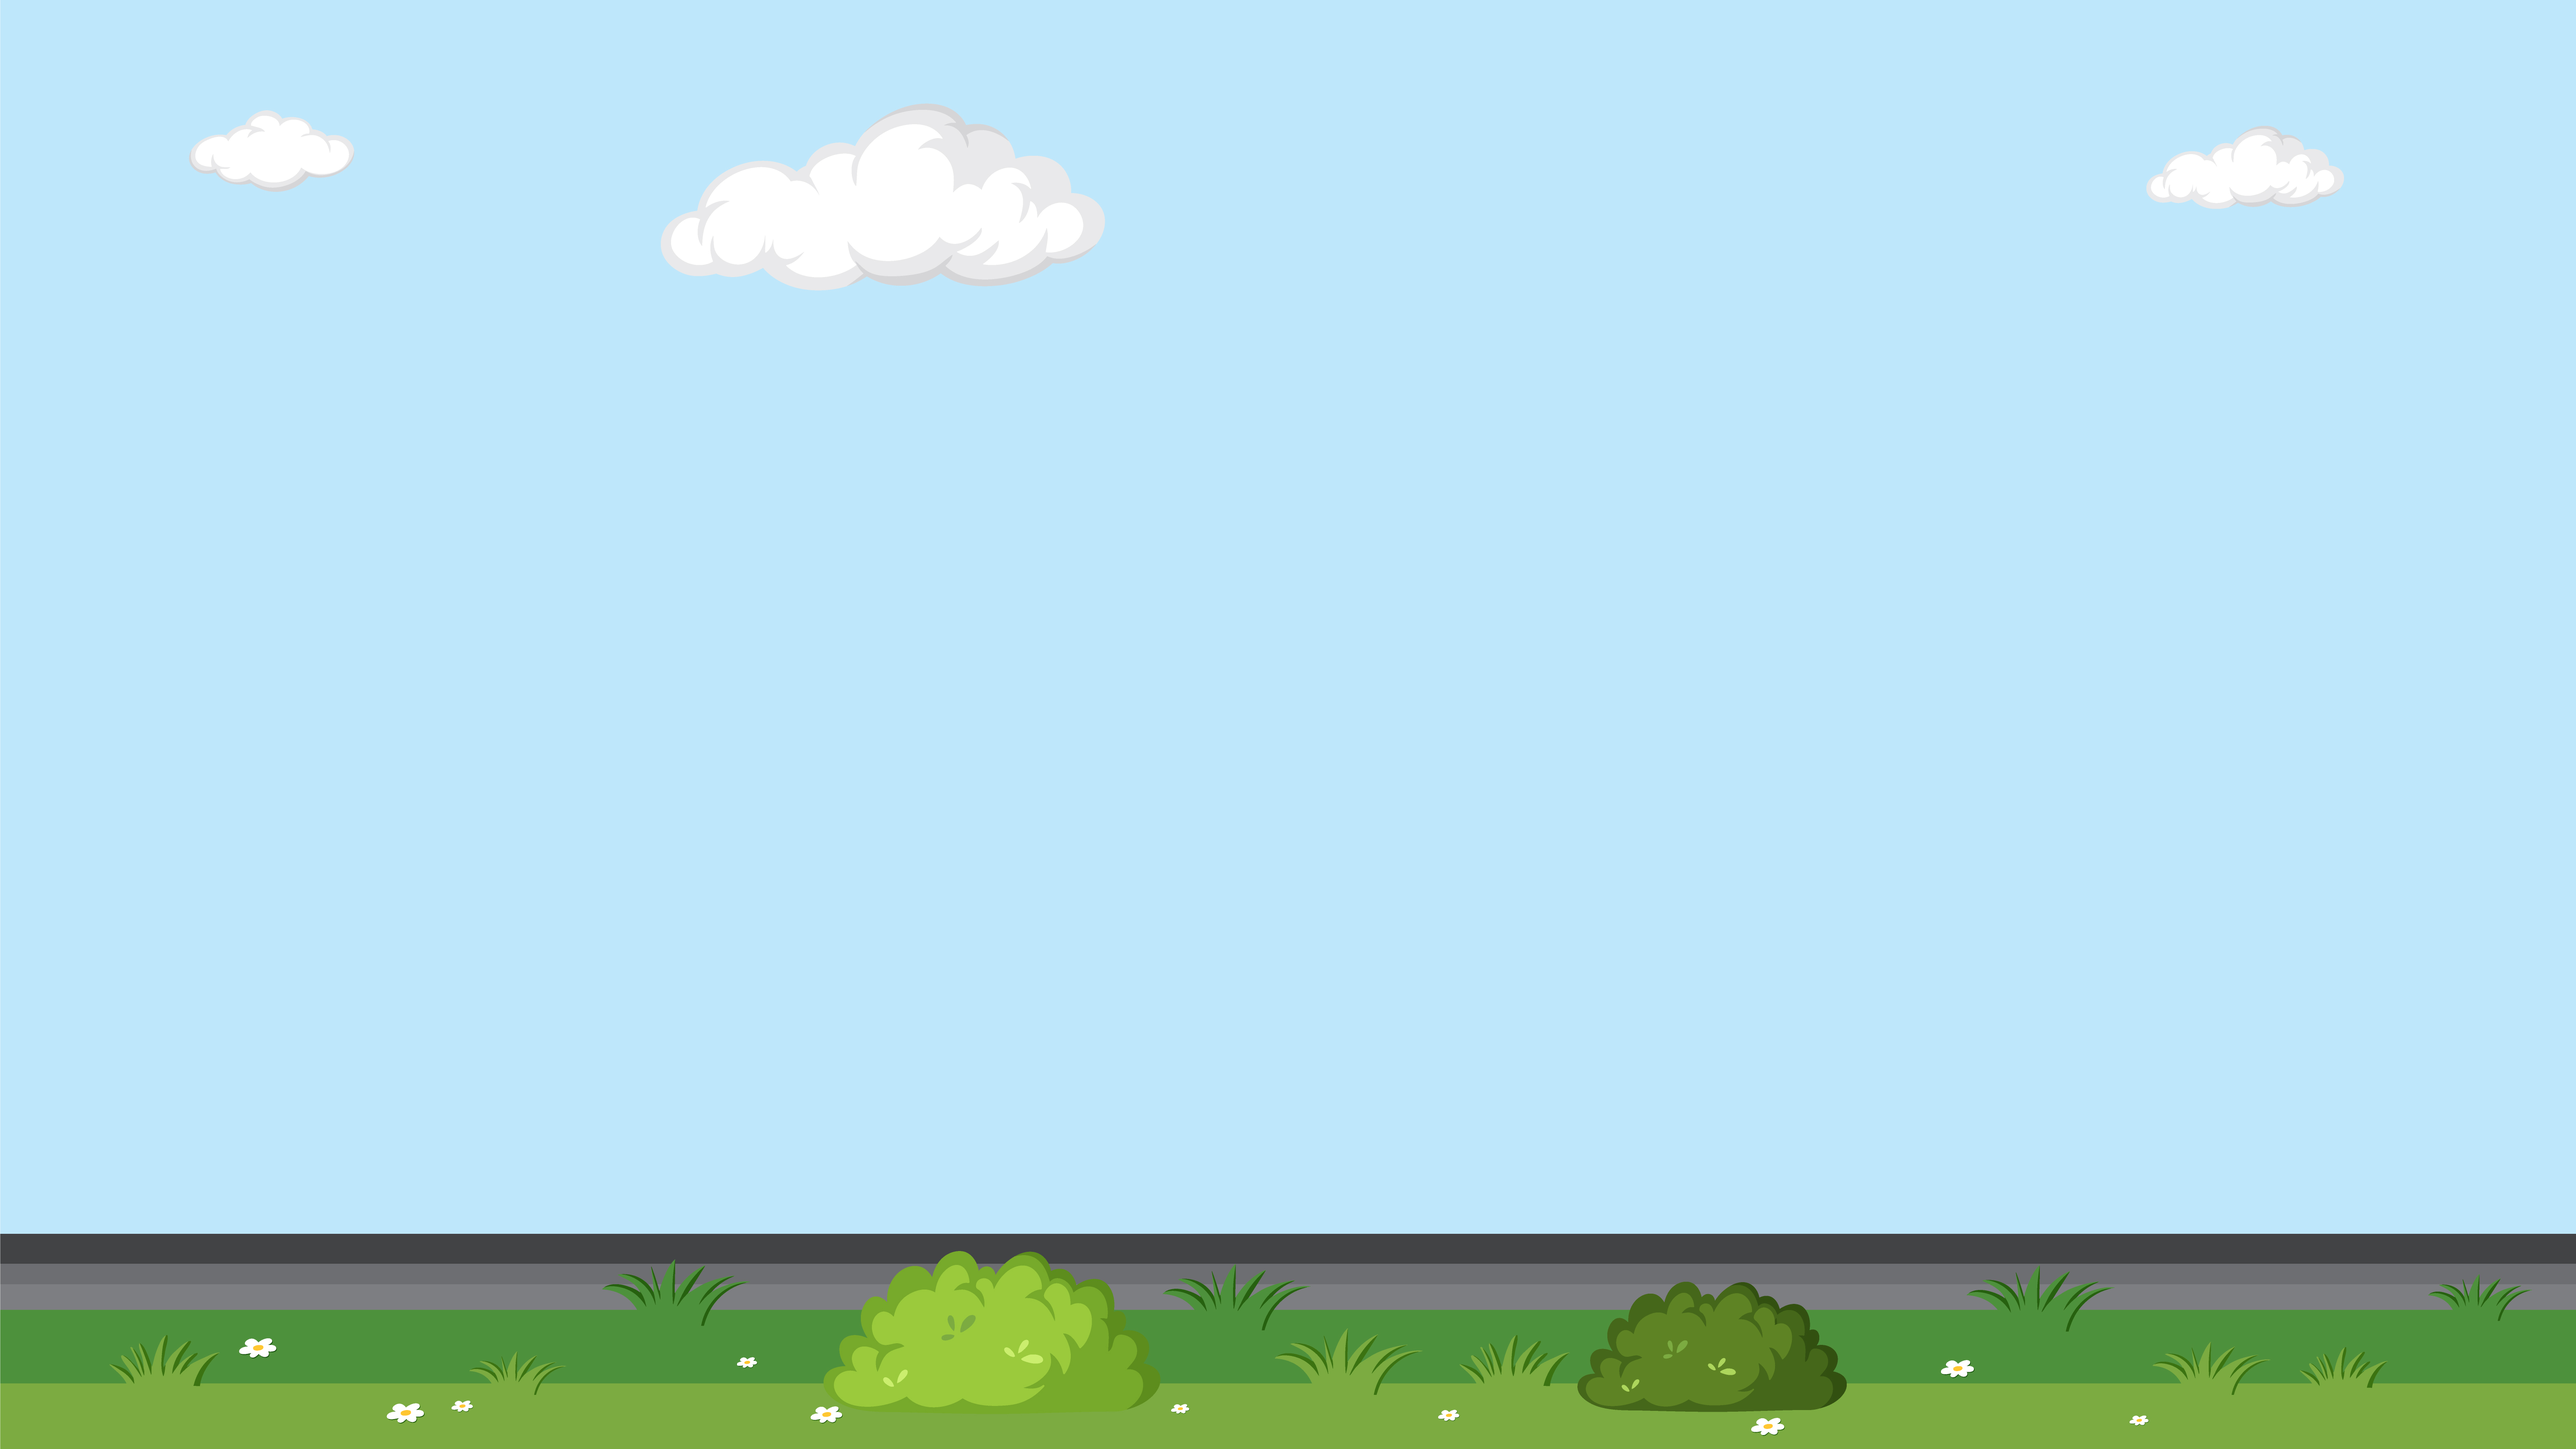
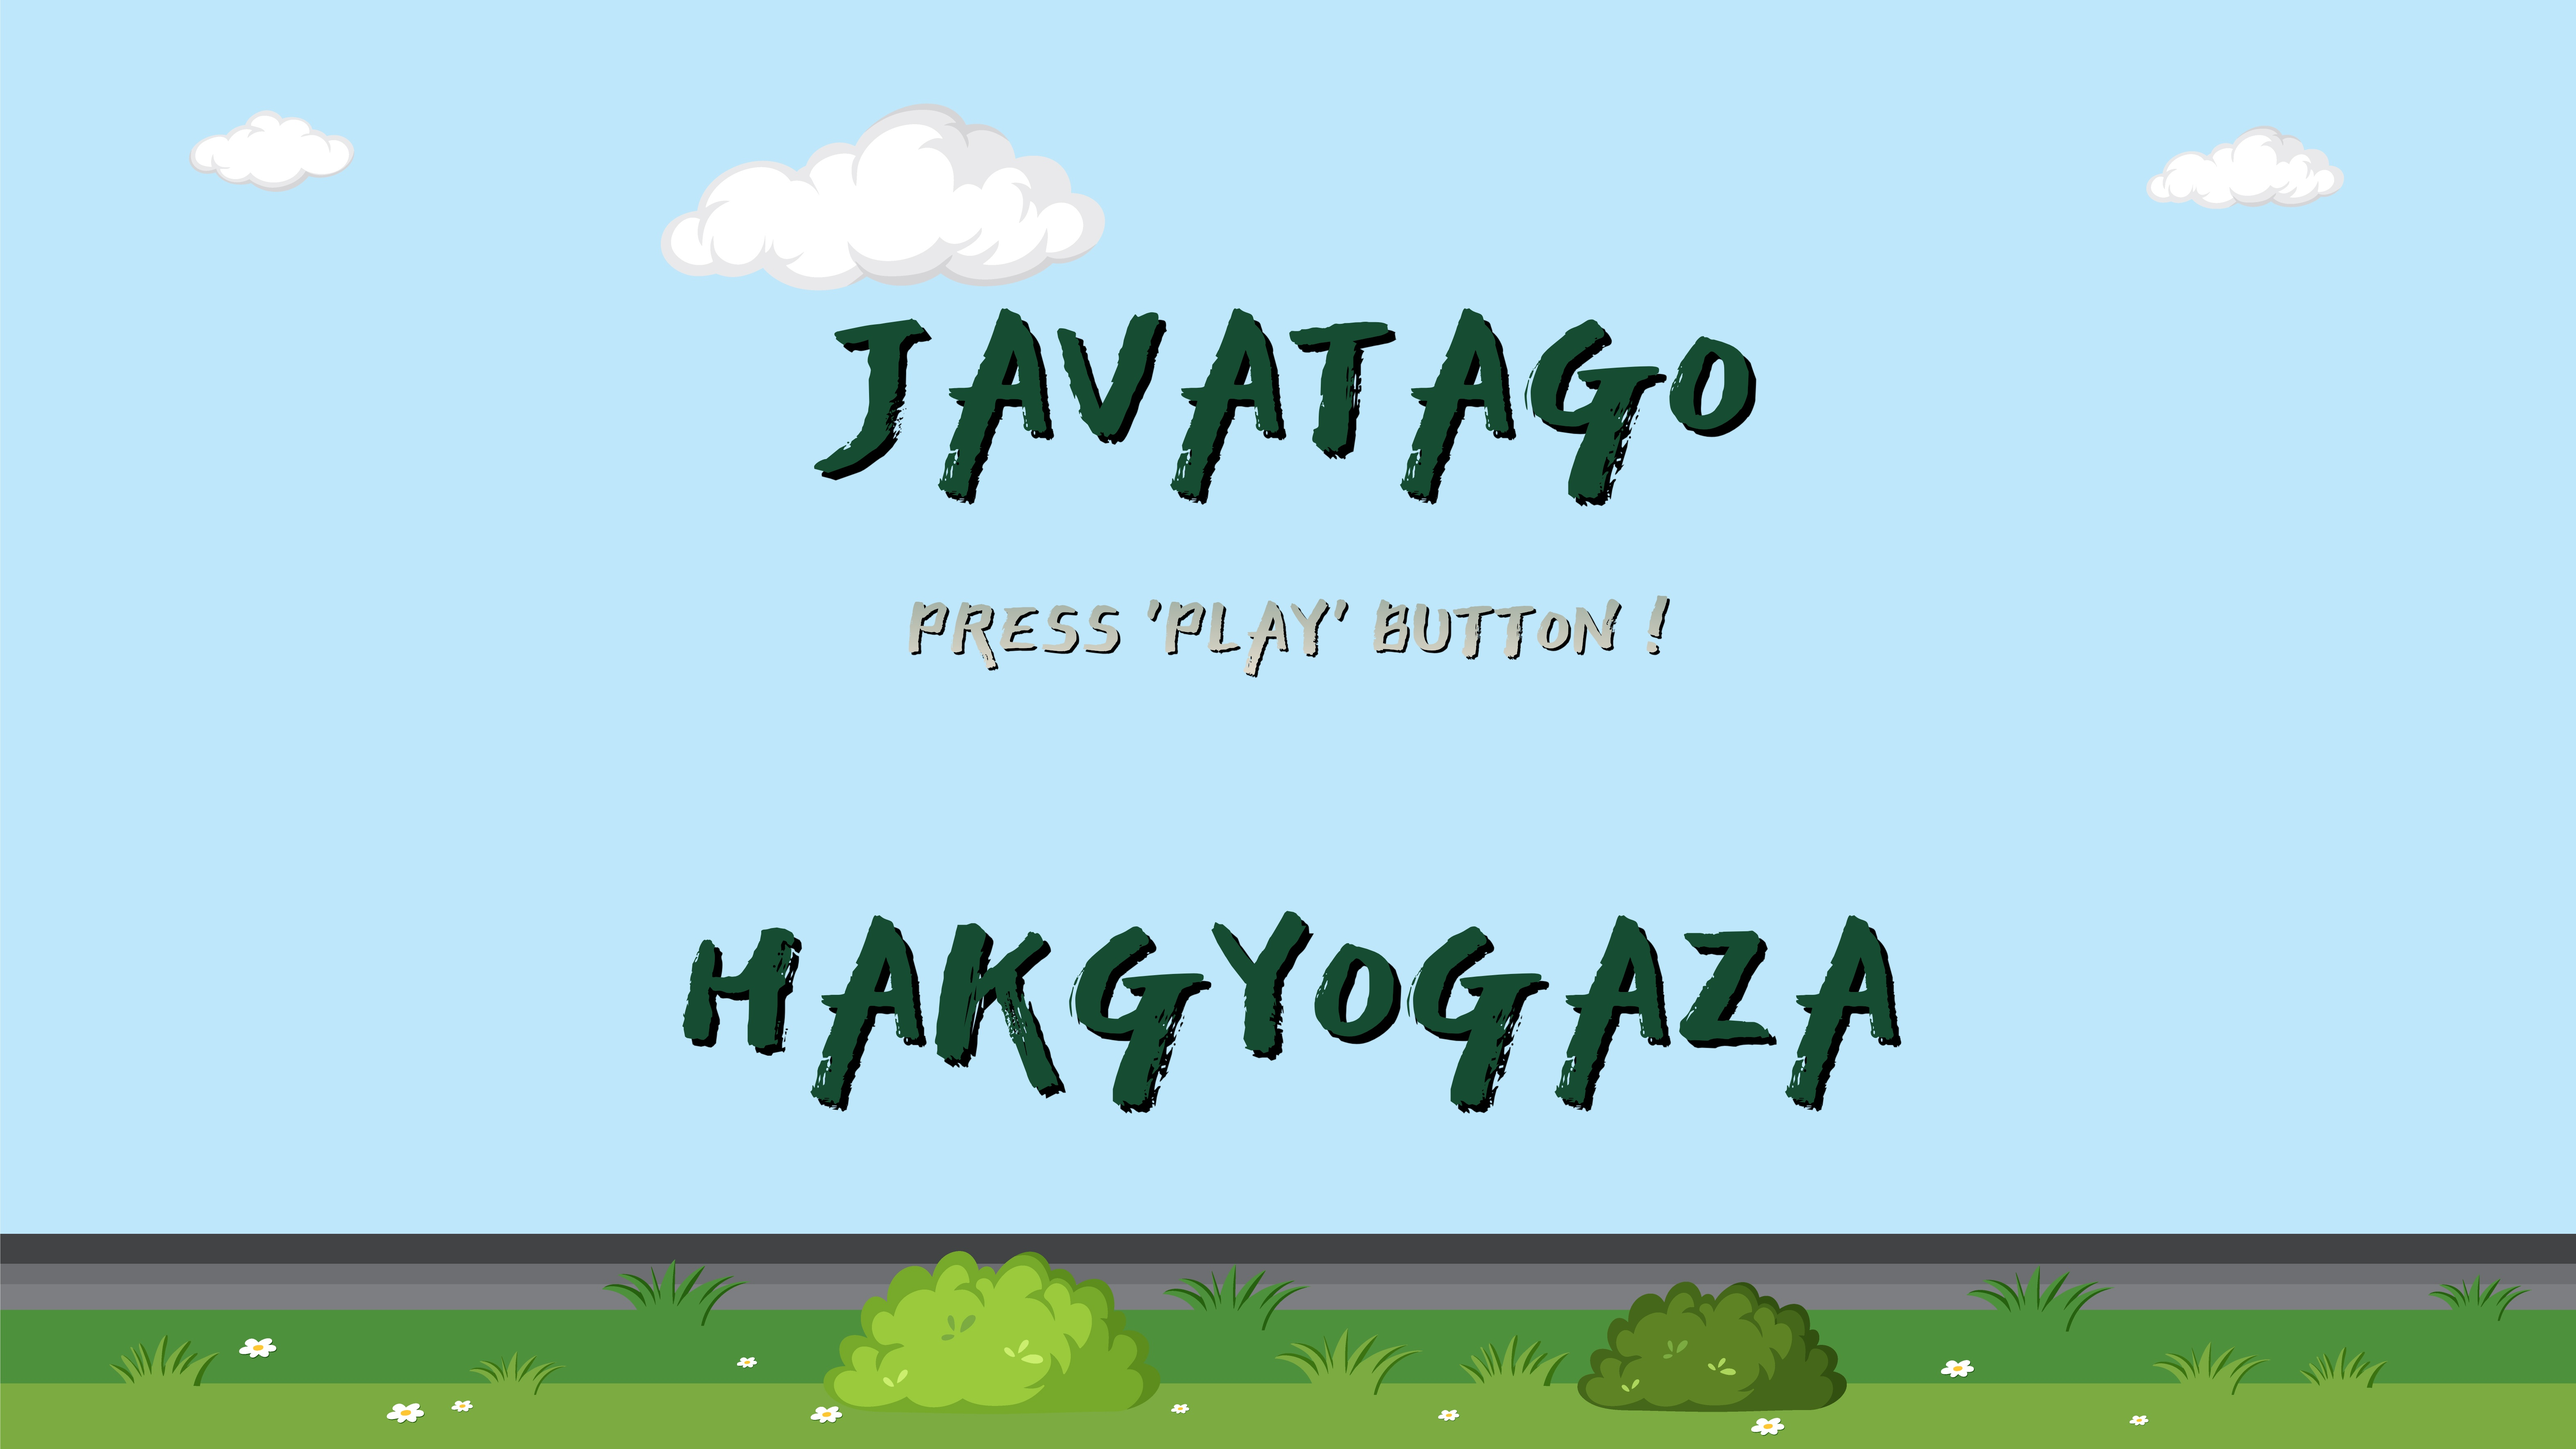
fifinal main / new backimg.jpg

Changed region(s): [[0.2495, 0.6223, 0.7486, 0.7779], [0.3119, 0.2178, 0.6862, 0.3423], [0.3431, 0.4045, 0.655, 0.4668]]

diff --git a/jiwon/src/miniGame/MainSystem.java b/jiwon/src/miniGame/MainSystem.java
@@ -13,10 +13,10 @@ public class MainSystem extends JFrame {
 	MakePuzzle game3;
 	GradeDodger game4;
 	
-	private int firstScore;
-	private int secondScore;
-	private int thirdScore;
-	private int fourthScore;
+	private int firstScore = 0;
+	private int secondScore = 0;
+	private int thirdScore = 0;
+	private int fourthScore = 0;
 	private int totalScore = 0;
 
 	public MainSystem() {
@@ -107,13 +107,9 @@ public class MainSystem extends JFrame {
 		setVisible(true);
 	}
 
-	void operateRankingSystem() {
-		firstScore = convertTimeToScore(firstScore);
-		secondScore = convertTimeToScore(secondScore);
-		thirdScore = convertTimeToScore(thirdScore);
-		fourthScore = convertTimeToScore(fourthScore);
-		
+	void operateRankingSystem() {		
 		totalScore = firstScore + secondScore + thirdScore + fourthScore;
+		totalScore = convertTimeToScore(totalScore);
 		new RankingSystem(this, totalScore);
 	}
 
@@ -122,8 +118,11 @@ public class MainSystem extends JFrame {
 //	최대 시간을 10분(=600s)로 잡고 점수는 (최대 시간-소요시간)*가중치로 환산, 소요시간이 10분을 초과하는 경우 0점
 		final int MAX_TIME = 600;
 		final int WEIGHT = 12345;
+		int score = 0;
+		
+		if (time > MAX_TIME || time < 0) time = MAX_TIME;
+		score = (MAX_TIME - time) * WEIGHT;
 
-		int score = (MAX_TIME - time) * WEIGHT;
 		return score;
 	}
 
@@ -132,19 +131,16 @@ public class MainSystem extends JFrame {
 		setLayout(new BorderLayout());
 		ImagePanel imgPanel = new ImagePanel(new ImageIcon("C:\\Temp\\backimg.jpg").getImage());
 		imgPanel.setLayout(null);
+//		imgPanel.setSize(2560, 1440);
 
-		JLabel playlb = new JLabel("시작 버튼을 눌러주세요!");
-		playlb.setBounds(50, 110, 200, 40);
-		playlb.setHorizontalAlignment(JLabel.CENTER);
-
-		JButton playBtn = new JButton("시작");
-		playBtn.setBounds(110, 150, 80, 40);
-		playBtn.setBorderPainted(false);
-
-		imgPanel.add(playlb);
+		JButton playBtn = new JButton("PLAY");
+		playBtn.setFont(new Font("Mistral", Font.PLAIN, 50));
+		playBtn.setForeground(new Color(25, 77, 51));
+		playBtn.setBackground(new Color(240, 248, 255));
+		playBtn.setBounds(600, 500, 500, 80);
+//		playBtn.setBorderPainted(false);
+		
 		imgPanel.add(playBtn);
-		imgPanel.setSize(2560, 1440);
-
 		add(imgPanel);
 
 		playBtn.addActionListener(new ActionListener() {
